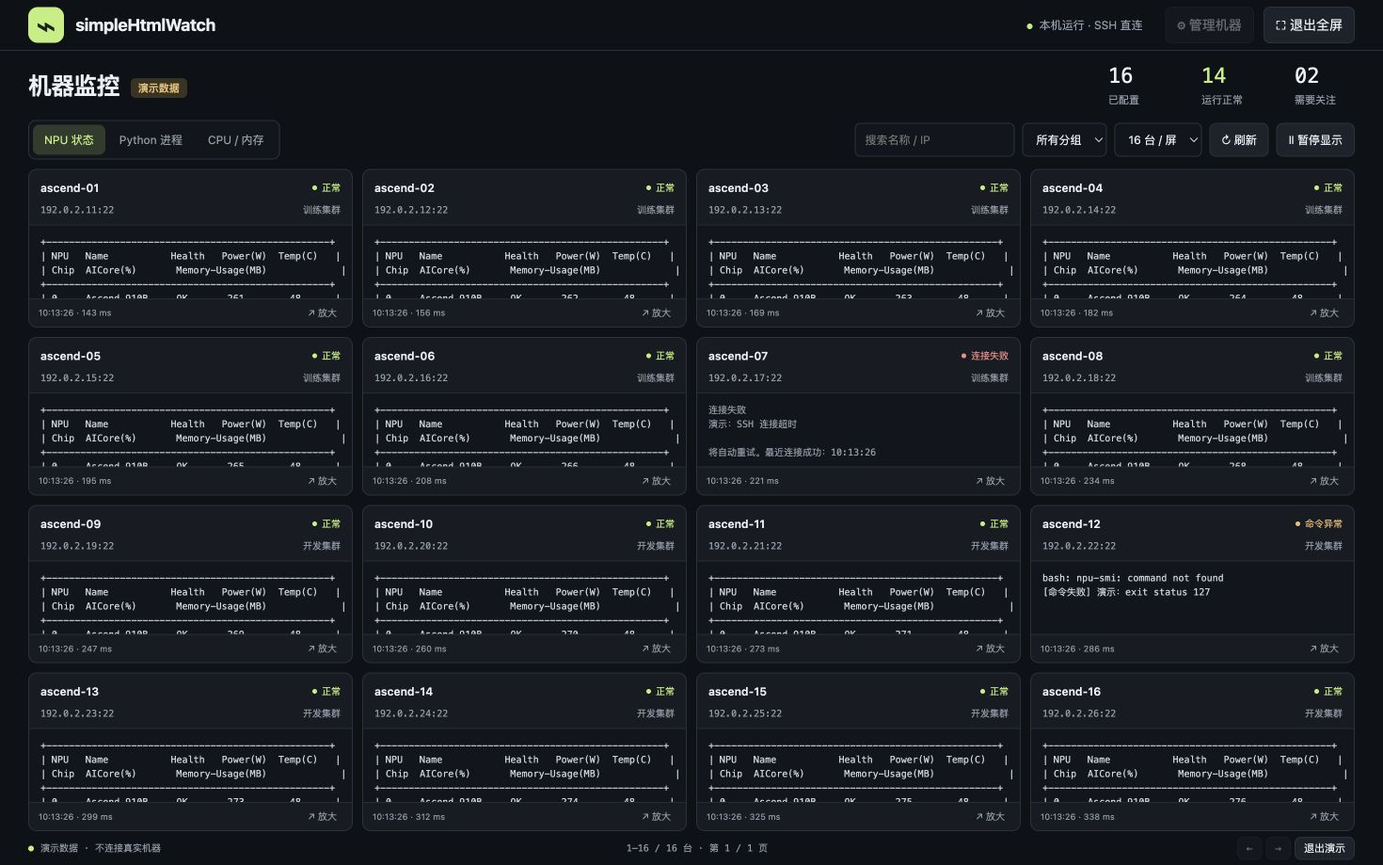
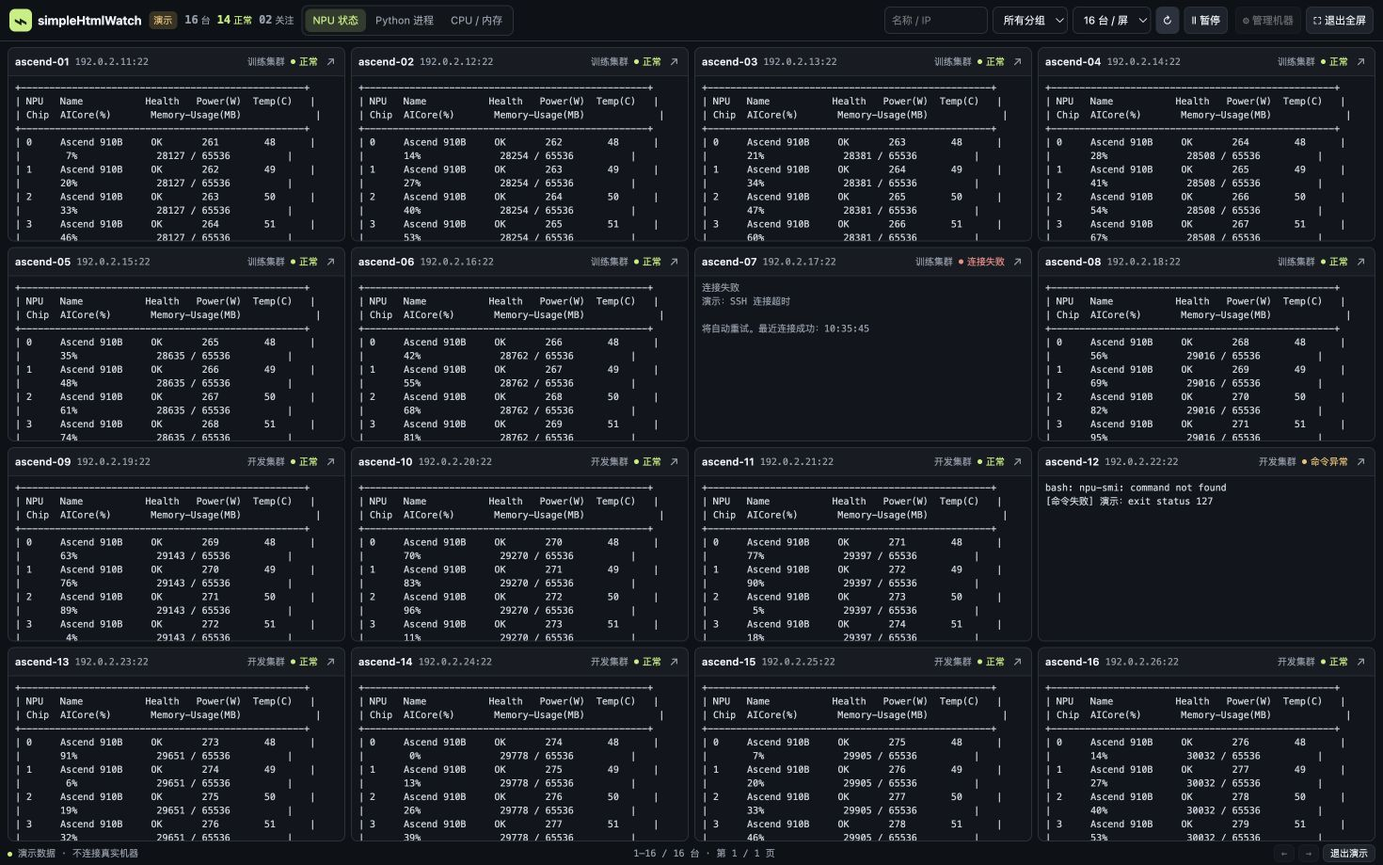
feat: maximize monitor output with single-row headers and 4s default

Changed region(s): [[0.0, 0.0, 1.0, 1.0]]

diff --git a/web/style.css b/web/style.css
@@ -1,22 +1,115 @@
 :root{color-scheme:dark;--bg:#0e1116;--surface:#171b22;--border:#2b313b;--text:#edf0f5;--muted:#939dab;--accent:#c0ef78;--amber:#edbf72;--red:#f78989;font:14px/1.5 -apple-system,BlinkMacSystemFont,"Segoe UI","Microsoft YaHei",sans-serif}
-*{box-sizing:border-box}body{margin:0;background:var(--bg);color:var(--text)}button,input,select,textarea{font:inherit}button{cursor:pointer;border:1px solid var(--border);border-radius:7px;padding:8px 12px;background:#1d222b;color:var(--text);white-space:nowrap;transition:background .15s}button:hover{background:#2b323e}button:disabled{opacity:.4;cursor:default}input,select,textarea{color:var(--text);background:#11151c;border:1px solid var(--border);border-radius:6px;padding:8px 10px;min-width:0}input:focus,select:focus,textarea:focus,button:focus-visible{outline:2px solid var(--accent);outline-offset:2px}input[type=checkbox]{accent-color:var(--accent)}[hidden]{display:none!important}h1,h2,h3,p{margin:0}h1{font-size:30px;letter-spacing:-.8px;font-weight:650}h2{font-size:21px}h3{font-size:15px}p{color:var(--muted)}.primary{background:var(--accent);border-color:var(--accent);color:#182019;font-weight:650}.primary:hover{background:#d0ff8a}.green{color:var(--accent)}.muted{color:var(--muted)}.wrap{overflow-wrap:anywhere}.topbar{height:76px;border-bottom:1px solid var(--border);display:flex;justify-content:space-between;align-items:center;padding:0 30px}.brand{display:flex;align-items:center;gap:12px;color:inherit;text-decoration:none}.brand-icon{background:var(--accent);width:38px;height:38px;border-radius:10px;display:grid;place-items:center;color:#162316;font-size:36px;line-height:1}.brand strong{font-size:18px;letter-spacing:-.3px}.brand-sub{display:block;font:9px/1.6 monospace;letter-spacing:2px;color:var(--muted)}.top-actions{display:flex;align-items:center;gap:10px}.local{font-size:12px;color:var(--muted);margin-right:14px}.local i,footer i{display:inline-block;width:6px;height:6px;border-radius:50%;background:var(--accent);margin-right:7px}main{padding:25px 30px 0}.page-heading{display:flex;justify-content:space-between;align-items:center;margin-bottom:24px}.eyebrow{font:10px/1.6 monospace;letter-spacing:2px;color:var(--muted);margin-bottom:6px}.page-heading p{font-size:12px;margin-top:4px}.summary{display:flex;gap:35px}.summary div{min-width:64px}.summary b{font:28px/1.3 monospace;display:block}.summary span{font-size:11px;color:var(--muted)}.toolbar{display:flex;align-items:center;justify-content:space-between;gap:12px;margin-bottom:18px;flex-wrap:wrap}.tabs{display:flex;gap:3px;padding:4px;border:1px solid var(--border);border-radius:8px;background:#11151a;width:fit-content}.tabs button{border:0;background:transparent;font-size:12px;color:var(--muted);padding:7px 12px}.tabs button.active{background:#313b2c;color:var(--accent)}.filters{display:flex;gap:8px;align-items:center}.filters input{width:170px}.filters input,.filters select,.filters button{font-size:12px;height:36px}.machine-grid{display:grid;grid-template-columns:repeat(4,minmax(0,1fr));gap:12px}.machine-grid[data-layout="2"],.machine-grid[data-layout="4"]{grid-template-columns:repeat(2,minmax(0,1fr))}.machine-grid[data-layout="8"]{grid-template-columns:repeat(4,minmax(0,1fr))}.machine-card{border:1px solid var(--border);border-radius:9px;background:var(--surface);overflow:hidden;min-width:0;display:flex;flex-direction:column;height:clamp(180px,calc((100dvh - 326px)/4),280px)}.machine-grid[data-layout="8"] .machine-card{height:max(240px,calc((100dvh - 302px)/2))}.machine-grid[data-layout="4"] .machine-card{height:max(240px,calc((100dvh - 302px)/2))}.machine-grid[data-layout="2"] .machine-card{height:max(360px,calc(100dvh - 290px))}.card-head{display:flex;justify-content:space-between;align-items:center;padding:10px 12px 7px;gap:8px}.card-name{font-weight:600;font-size:12px;white-space:nowrap;text-overflow:ellipsis;overflow:hidden}.card-meta{font:10px/1.5 monospace;color:var(--muted);padding:0 12px 8px;display:flex;justify-content:space-between;gap:5px}.card-meta span{white-space:nowrap;overflow:hidden;text-overflow:ellipsis}.badge{display:flex;align-items:center;gap:5px;color:var(--muted);font-size:10px;white-space:nowrap}.badge:before{content:"";height:5px;width:5px;border-radius:50%;background:currentColor}.badge.online{color:var(--accent)}.badge.offline{color:var(--red)}.badge.partial,.badge.untrusted{color:var(--amber)}.card-output{margin:0;padding:10px 12px;background:#11151c;border-top:1px solid #262d37;overflow:auto;flex:1;color:#ccd4df;font:10px/1.5 "Cascadia Mono",Consolas,"SFMono-Regular",monospace;white-space:pre;tab-size:4}.card-output.message{white-space:pre-wrap;color:var(--muted)}.card-foot{display:flex;align-items:center;justify-content:space-between;padding:5px 10px;border-top:1px solid #262d37;font-size:9px;color:var(--muted);gap:6px;min-height:28px}.card-foot button{font-size:10px;border:0;padding:2px 6px;background:transparent;color:var(--muted)}.card-foot .trust-action{color:var(--amber)}.empty{min-height:470px;border:1px dashed #39404b;border-radius:12px;display:flex;align-items:center;justify-content:center;flex-direction:column;text-align:center;background:radial-gradient(ellipse at 50% 0%,#20292255,transparent 65%)}.empty-icon{font-size:60px;color:var(--accent);line-height:1;margin:14px}.empty h2{font-size:25px;margin:10px 0}.empty p{font-size:13px;line-height:1.9;margin-bottom:23px}.empty button{margin:0 4px}.setup-steps{display:flex;gap:35px;margin:45px 0 25px;font-size:11px;color:var(--muted)}.setup-steps b{color:var(--accent);font-family:monospace;margin-right:7px}.notice{background:#412c25;border:1px solid #775346;color:#ffd1b5;padding:10px;margin-bottom:15px;border-radius:6px}.no-results{padding:70px;text-align:center;grid-column:1/-1;color:var(--muted)}footer{display:flex;justify-content:space-between;align-items:center;gap:12px;color:var(--muted);font:10px/1.5 monospace;min-height:46px}footer button{padding:3px 9px;font-size:11px;margin-left:4px}.demo-tag{font-size:11px;letter-spacing:0;background:#3a3321;color:var(--amber);padding:4px 8px;border-radius:5px;margin-left:12px;vertical-align:middle}dialog{color:var(--text);background:var(--surface);border:1px solid #414954;border-radius:12px;padding:0;width:min(560px,94vw);max-height:92dvh;box-shadow:0 30px 100px #0009}dialog::backdrop{background:#000a;backdrop-filter:blur(5px)}.settings-dialog{width:min(1200px,96vw)}.dialog-heading{display:flex;align-items:center;justify-content:space-between;padding:23px 25px;border-bottom:1px solid var(--border);gap:20px}.dialog-heading p{font-size:12px;margin-top:5px}.dialog-heading button{border:0;background:transparent}.settings-body{padding:0 25px 20px;max-height:65dvh;overflow:auto}.section-title{display:flex;justify-content:space-between;align-items:center;gap:12px;margin:23px 0 12px}.section-title p{font-size:12px;margin-top:4px}.section-title button{font-size:12px}.section-title input{width:78px}.profile-row{display:grid;grid-template-columns:1fr 1fr 1.5fr auto;gap:10px;padding:12px;margin:8px 0;border:1px solid var(--border);border-radius:8px}.profile-row label,.machine-edit label,.batch-body label{display:flex;flex-direction:column;gap:5px;font-size:11px;color:var(--muted)}.profile-row button{align-self:end}.machine-edit{border:1px solid var(--border);border-radius:8px;padding:12px;margin-bottom:8px}.machine-fields{display:grid;grid-template-columns:1fr 1.2fr 75px .8fr 1fr auto;gap:9px}.machine-fields button{align-self:end}.machine-options{display:flex;align-items:center;gap:18px;margin-top:10px}.machine-options label{display:flex;flex-direction:row;align-items:center;gap:4px}.machine-options .enabled{margin-left:auto}.delete{color:var(--red)}.editor-empty{padding:20px;border:1px dashed var(--border);color:var(--muted);font-size:12px;border-radius:8px}.dialog-footer{display:flex;justify-content:space-between;align-items:center;padding:16px 25px;border-top:1px solid var(--border);gap:10px}.dialog-footer button{font-size:12px}.privacy-note{font-size:11px;line-height:1.8;background:#10151b;border-radius:6px;padding:12px}.form-error{color:var(--red);font-size:12px;padding:0 25px 8px;white-space:pre-wrap}.batch-body{padding:20px 25px;display:flex;flex-direction:column;gap:15px}.batch-body textarea{resize:vertical;font-family:monospace;width:100%}.batch-body p{font-size:12px}.batch-body pre{white-space:pre-wrap;overflow-wrap:anywhere;color:var(--accent)}.batch-body .form-error{padding:0}.detail-dialog{width:min(1300px,96vw)}.detail-dialog .tabs{margin:18px 25px}.detail-dialog pre{margin:0;padding:0 25px 25px;font:13px/1.65 "Cascadia Mono",Consolas,monospace;overflow:auto;min-height:200px;max-height:64dvh}#toast{position:fixed;bottom:22px;left:50%;transform:translateX(-50%);padding:10px 20px;border-radius:8px;border:1px solid #677551;background:#273222;color:var(--accent);z-index:99;font-size:13px}:fullscreen .topbar{height:54px}:fullscreen main{padding-top:12px}:fullscreen .page-heading{margin-bottom:12px}:fullscreen h1{font-size:24px}:fullscreen .page-heading .eyebrow,:fullscreen .page-heading p,:fullscreen .brand-sub{display:none}:fullscreen .summary b{font-size:22px}:fullscreen .toolbar{margin-bottom:10px}:fullscreen .machine-card{height:max(145px,calc((100dvh - 224px)/4))}:fullscreen .machine-grid[data-layout="8"] .machine-card,:fullscreen .machine-grid[data-layout="4"] .machine-card{height:max(230px,calc((100dvh - 200px)/2))}:fullscreen .machine-grid[data-layout="2"] .machine-card{height:max(360px,calc(100dvh - 188px))}
-@media(min-width:1800px){.card-output{font-size:11px}}
-@media(max-width:1100px){.local{display:none}.filters input{width:135px}.machine-grid,.machine-grid[data-layout="8"]{grid-template-columns:repeat(2,minmax(0,1fr))}.machine-fields{grid-template-columns:1fr 1.2fr 65px}.machine-card{height:240px}.toolbar{gap:10px}.summary{gap:15px}:fullscreen .machine-card{height:240px}}
-@media(max-width:640px){.topbar{padding:0 14px;height:65px}.brand strong{font-size:14px}.brand-sub{display:none}.brand-icon{width:30px;height:30px}.top-actions{gap:5px}.top-actions button{font-size:11px;padding:7px}main{padding:18px 12px 0}.summary{gap:10px}.summary div{min-width:35px}.summary b{font-size:21px}.summary span{font-size:9px}h1{font-size:23px}.page-heading .eyebrow{font-size:8px}.filters{flex-wrap:wrap}.machine-grid,.machine-grid[data-layout="2"],.machine-grid[data-layout="4"],.machine-grid[data-layout="8"]{grid-template-columns:1fr}.profile-row{grid-template-columns:1fr 1fr}.machine-fields{grid-template-columns:1fr 1fr}.machine-options{gap:8px;flex-wrap:wrap}.section-title{align-items:start;flex-direction:column}.dialog-heading,.settings-body,.dialog-footer{padding-left:14px;padding-right:14px}.dialog-footer{flex-wrap:wrap}.setup-steps{gap:10px;flex-direction:column}.empty h2{font-size:20px}.empty p{font-size:12px}.empty{padding:20px}.detail-dialog pre{font-size:11px}}
-@media(min-width:1101px){
-  body{height:100dvh;min-height:640px;display:flex;flex-direction:column}
-  .topbar{flex-shrink:0;height:60px}
-  main{flex:1;min-height:0;display:flex;flex-direction:column;padding-top:14px}
-  .page-heading{flex-shrink:0;margin-bottom:14px}
-  .page-heading .eyebrow{font-size:9px;margin-bottom:2px}
-  .page-heading h1{font-size:25px;line-height:1.3}
-  .page-heading p{display:none}
-  .summary b{font-size:24px}
-  .toolbar{flex-shrink:0;margin-bottom:12px}
-  .notice{flex-shrink:0}
-  .machine-grid{flex:1;min-height:0;grid-auto-rows:minmax(0,1fr);gap:10px}
-  .machine-grid .machine-card,.machine-grid[data-layout] .machine-card,:fullscreen .machine-grid .machine-card,:fullscreen .machine-grid[data-layout] .machine-card{height:auto;min-height:0}
-  .card-output{min-height:0}
-  footer{flex-shrink:0;min-height:36px}
-  .empty{flex:1;min-height:300px}
+*{box-sizing:border-box}
+body{margin:0;background:var(--bg);color:var(--text);height:100dvh;min-height:480px;display:flex;flex-direction:column}
+button,input,select,textarea{font:inherit}
+button{cursor:pointer;border:1px solid var(--border);border-radius:6px;padding:8px 12px;background:#1d222b;color:var(--text);white-space:nowrap;transition:background .15s}
+button:hover{background:#2b323e}
+button:disabled{opacity:.4;cursor:default}
+input,select,textarea{color:var(--text);background:#11151c;border:1px solid var(--border);border-radius:6px;padding:8px 10px;min-width:0}
+input:focus,select:focus,textarea:focus,button:focus-visible,.badge:focus-visible{outline:2px solid var(--accent);outline-offset:2px}
+input[type=checkbox]{accent-color:var(--accent)}
+[hidden]{display:none!important}
+h1,h2,h3,p{margin:0}h2{font-size:21px}h3{font-size:15px}p{color:var(--muted)}
+.primary{background:var(--accent);border-color:var(--accent);color:#182019;font-weight:650}.primary:hover{background:#d0ff8a}
+.green{color:var(--accent)}.muted{color:var(--muted)}.wrap{overflow-wrap:anywhere}
+.eyebrow{font:10px/1.6 monospace;letter-spacing:2px;color:var(--muted);margin-bottom:6px}
+/* Keep the entire dashboard toolbar on one row, including in fullscreen. */
+.topbar{display:flex;align-items:center;gap:8px;flex-shrink:0;min-height:44px;padding:5px 10px;border-bottom:1px solid var(--border);overflow-x:auto;white-space:nowrap}
+.brand{display:flex;align-items:center;gap:6px;flex-shrink:0;color:inherit;text-decoration:none}
+.brand-icon{width:24px;height:24px;border-radius:6px;display:grid;place-items:center;background:var(--accent);color:#162316;font-size:25px;line-height:1}
+.brand strong{font-size:13px;letter-spacing:-.3px}
+.summary{display:flex;align-items:center;gap:7px;flex-shrink:0;color:var(--muted);font-size:10px}
+.summary b{font:600 12px/1 monospace}
+.toolbar{display:flex;align-items:center;justify-content:space-between;gap:8px;flex:1}
+.tabs{display:flex;gap:2px;padding:3px;border:1px solid var(--border);border-radius:7px;background:#11151a;width:fit-content;flex-shrink:0}
+.tabs button{border:0;background:transparent;font-size:11px;color:var(--muted);padding:4px 8px}
+.tabs button.active{background:#313b2c;color:var(--accent)}
+.filters,.top-actions{display:flex;align-items:center;gap:5px;flex-shrink:0}
+.filters input{width:110px}.filters select{max-width:110px}
+.filters input,.filters select,.filters button,.top-actions button{height:29px;font-size:11px;padding:4px 7px}
+main{flex:1;min-height:0;display:flex;flex-direction:column;padding:6px 8px 0}
+.machine-grid{display:grid;grid-template-columns:repeat(4,minmax(0,1fr));grid-auto-rows:minmax(0,1fr);gap:6px;flex:1;min-height:0}
+.machine-grid[data-layout="2"],.machine-grid[data-layout="4"]{grid-template-columns:repeat(2,minmax(0,1fr))}
+.machine-card{border:1px solid var(--border);border-radius:7px;background:var(--surface);overflow:hidden;min-width:0;min-height:0;display:flex;flex-direction:column}
+/* One metadata row; the remaining card height belongs to command output. */
+.card-head{display:flex;align-items:center;flex-wrap:nowrap;flex-shrink:0;gap:6px;height:29px;padding:3px 7px;white-space:nowrap}
+.card-name{font-weight:600;font-size:11px;flex:0 1 auto;max-width:120px;min-width:36px;overflow:hidden;text-overflow:ellipsis}
+.host,.group{font:10px/1.5 monospace;color:var(--muted);overflow:hidden;text-overflow:ellipsis}
+.host{flex:0 1 auto;min-width:60px}
+.group{flex:0 3 auto;min-width:0;max-width:65px;margin-left:auto;font-family:inherit}
+.badge{display:flex;align-items:center;gap:4px;flex-shrink:0;color:var(--muted);font-size:10px;white-space:nowrap}
+.badge:before{content:"";height:5px;width:5px;border-radius:50%;background:currentColor}
+.badge.online{color:var(--accent)}.badge.offline{color:var(--red)}.badge.partial,.badge.untrusted{color:var(--amber)}
+.card-head button{flex-shrink:0;border:0;padding:1px 3px;background:transparent;color:var(--muted);font-size:12px;line-height:20px}
+.card-head .trust-action{color:var(--amber);font-size:10px}
+.card-output{margin:0;padding:5px 7px;background:#11151c;border-top:1px solid #262d37;overflow:auto;flex:1;min-height:0;color:#ccd4df;font:10px/1.45 "Cascadia Mono",Consolas,"SFMono-Regular",monospace;white-space:pre;tab-size:4}
+.card-output.message{white-space:pre-wrap;color:var(--muted)}
+.empty{min-height:470px;border:1px dashed #39404b;border-radius:12px;display:flex;align-items:center;justify-content:center;flex-direction:column;text-align:center;background:radial-gradient(ellipse at 50% 0%,#20292255,transparent 65%)}
+.empty-icon{font-size:60px;color:var(--accent);line-height:1;margin:14px}
+.empty h2{font-size:25px;margin:10px 0}
+.empty p{font-size:13px;line-height:1.9;margin-bottom:23px}
+.empty button{margin:0 4px}
+.setup-steps{display:flex;gap:35px;margin:45px 0 25px;font-size:11px;color:var(--muted)}
+.setup-steps b{color:var(--accent);font-family:monospace;margin-right:7px}
+.notice{background:#412c25;border:1px solid #775346;color:#ffd1b5;padding:10px;margin-bottom:15px;border-radius:6px}
+.no-results{padding:70px;text-align:center;grid-column:1/-1;color:var(--muted)}
+footer{display:flex;justify-content:space-between;align-items:center;gap:12px;color:var(--muted);font:10px/1.5 monospace;min-height:46px}
+footer button{padding:3px 9px;font-size:11px;margin-left:4px}
+.demo-tag{font-size:11px;letter-spacing:0;background:#3a3321;color:var(--amber);padding:4px 8px;border-radius:5px;margin-left:12px;vertical-align:middle}
+dialog{color:var(--text);background:var(--surface);border:1px solid #414954;border-radius:12px;padding:0;width:min(560px,94vw);max-height:92dvh;box-shadow:0 30px 100px #0009}
+dialog::backdrop{background:#000a;backdrop-filter:blur(5px)}
+.settings-dialog{width:min(1200px,96vw)}
+.dialog-heading{display:flex;align-items:center;justify-content:space-between;padding:23px 25px;border-bottom:1px solid var(--border);gap:20px}
+.dialog-heading p{font-size:12px;margin-top:5px}
+.dialog-heading button{border:0;background:transparent}
+.settings-body{padding:0 25px 20px;max-height:65dvh;overflow:auto}
+.section-title{display:flex;justify-content:space-between;align-items:center;gap:12px;margin:23px 0 12px}
+.section-title p{font-size:12px;margin-top:4px}
+.section-title button{font-size:12px}
+.section-title input{width:78px}
+.profile-row{display:grid;grid-template-columns:1fr 1fr 1.5fr auto;gap:10px;padding:12px;margin:8px 0;border:1px solid var(--border);border-radius:8px}
+.profile-row label,.machine-edit label,.batch-body label{display:flex;flex-direction:column;gap:5px;font-size:11px;color:var(--muted)}
+.profile-row button{align-self:end}
+.machine-edit{border:1px solid var(--border);border-radius:8px;padding:12px;margin-bottom:8px}
+.machine-fields{display:grid;grid-template-columns:1fr 1.2fr 75px .8fr 1fr auto;gap:9px}
+.machine-fields button{align-self:end}
+.machine-options{display:flex;align-items:center;gap:18px;margin-top:10px}
+.machine-options label{display:flex;flex-direction:row;align-items:center;gap:4px}
+.machine-options .enabled{margin-left:auto}
+.delete{color:var(--red)}
+.editor-empty{padding:20px;border:1px dashed var(--border);color:var(--muted);font-size:12px;border-radius:8px}
+.dialog-footer{display:flex;justify-content:space-between;align-items:center;padding:16px 25px;border-top:1px solid var(--border);gap:10px}
+.dialog-footer button{font-size:12px}
+.privacy-note{font-size:11px;line-height:1.8;background:#10151b;border-radius:6px;padding:12px}
+.form-error{color:var(--red);font-size:12px;padding:0 25px 8px;white-space:pre-wrap}
+.batch-body{padding:20px 25px;display:flex;flex-direction:column;gap:15px}
+.batch-body textarea{resize:vertical;font-family:monospace;width:100%}
+.batch-body p{font-size:12px}
+.batch-body pre{white-space:pre-wrap;overflow-wrap:anywhere;color:var(--accent)}
+.batch-body .form-error{padding:0}
+.detail-dialog{width:min(1300px,96vw)}
+.detail-dialog .tabs{margin:18px 25px}
+.detail-dialog pre{margin:0;padding:0 25px 25px;font:13px/1.65 "Cascadia Mono",Consolas,monospace;overflow:auto;min-height:200px;max-height:64dvh}
+#toast{position:fixed;bottom:22px;left:50%;transform:translateX(-50%);padding:10px 20px;border-radius:8px;border:1px solid #677551;background:#273222;color:var(--accent);z-index:99;font-size:13px}
+
+.empty{flex:1;min-height:300px}
+.topbar .demo-tag{margin:0;font-size:10px;padding:2px 5px}
+footer{min-height:25px;flex-shrink:0;font-size:10px}
+footer button{font-size:10px;padding:1px 7px}
+footer i{display:inline-block;width:5px;height:5px;border-radius:50%;background:var(--accent);margin-right:6px}
+@media(min-width:1800px){.card-output{font-size:11px}.topbar{gap:12px}.filters input{width:160px}}
+@media(max-width:1100px){
+  body{height:auto;min-height:100dvh}
+  .machine-grid{flex:none;grid-template-columns:repeat(2,minmax(0,1fr));grid-auto-rows:260px}
+  .machine-grid[data-layout="2"]{grid-auto-rows:500px}
+  .machine-fields{grid-template-columns:1fr 1.2fr 65px}
+  .topbar{position:sticky;top:0;background:var(--bg);z-index:2}
+}
+@media(max-width:640px){
+  .machine-grid,.machine-grid[data-layout="2"],.machine-grid[data-layout="4"]{grid-template-columns:1fr}
+  .profile-row{grid-template-columns:1fr 1fr}.machine-fields{grid-template-columns:1fr 1fr}
+  .machine-options{gap:8px;flex-wrap:wrap}.section-title{align-items:start;flex-direction:column}
+  .dialog-heading,.settings-body,.dialog-footer{padding-left:14px;padding-right:14px}.dialog-footer{flex-wrap:wrap}
+  .setup-steps{gap:10px;flex-direction:column}.empty h2{font-size:20px}.empty p{font-size:12px}.empty{padding:20px}
+  .detail-dialog pre{font-size:11px}footer{flex-wrap:wrap;padding:4px 0;gap:4px}
 }

diff --git a/web/index.html b/web/index.html
@@ -9,16 +9,17 @@
 </head>
 <body>
   <header class="topbar">
-    <a class="brand" href="/" aria-label="simpleHtmlWatch 首页"><span class="brand-icon">⌁</span><strong>simpleHtmlWatch<span class="brand-sub">BARE METAL, IN SIGHT.</span></strong></a>
-    <div class="top-actions"><span class="local"><i></i>本机运行 · SSH 直连</span><button id="settings-btn">⚙ 管理机器</button><button id="fullscreen-btn" title="进入全屏，按 Esc 退出">⛶ 全屏</button></div>
+    <a class="brand" href="/" aria-label="simpleHtmlWatch 首页"><span class="brand-icon">⌁</span><strong>simpleHtmlWatch</strong></a>
+    <span id="demo-tag" class="demo-tag" hidden>演示</span>
+    <div class="summary" aria-label="机器统计"><span title="已配置"><b id="total">00</b> 台</span><span class="green" title="运行正常"><b id="online">00</b> 正常</span><span title="需要关注"><b id="attention">00</b> 关注</span></div>
+    <div class="toolbar" role="region" aria-label="监控工具栏">
+      <div class="tabs" id="view-tabs"><button data-view="npu" class="active">NPU 状态</button><button data-view="python">Python 进程</button><button data-view="usage">CPU / 内存</button></div>
+      <div class="filters"><input id="search" type="search" placeholder="名称 / IP" aria-label="搜索机器"><select id="group-filter" aria-label="机器分组"><option value="">所有分组</option></select><select id="layout" aria-label="同屏台数"><option value="2">2 台 / 屏</option><option value="4">4 台 / 屏</option><option value="8">8 台 / 屏</option><option value="16" selected>16 台 / 屏</option></select><button id="refresh-btn" title="立即采集" aria-label="立即采集">↻</button><button id="pause-btn" title="暂停本页面显示更新，后台继续采集">Ⅱ 暂停</button></div>
+    </div>
+    <div class="top-actions"><button id="settings-btn">⚙ 管理机器</button><button id="fullscreen-btn" title="进入全屏，按 Esc 退出">⛶ 全屏</button></div>
   </header>
   <main>
-    <section class="page-heading"><div><div class="eyebrow">WORKSPACE / OVERVIEW</div><h1>机器监控<span id="demo-tag" class="demo-tag" hidden>演示数据</span></h1><p>所有机器，一个视野。</p></div><div class="summary"><div><b id="total">00</b><span>已配置</span></div><div><b id="online" class="green">00</b><span>运行正常</span></div><div><b id="attention">00</b><span>需要关注</span></div></div></section>
     <div id="connection-error" class="notice" hidden></div>
-    <section class="toolbar" aria-label="监控工具栏">
-      <div class="tabs" id="view-tabs"><button data-view="npu" class="active">NPU 状态</button><button data-view="python">Python 进程</button><button data-view="usage">CPU / 内存</button></div>
-      <div class="filters"><input id="search" type="search" placeholder="搜索名称 / IP" aria-label="搜索机器"><select id="group-filter" aria-label="机器分组"><option value="">所有分组</option></select><select id="layout" aria-label="同屏台数"><option value="2">2 台 / 屏</option><option value="4">4 台 / 屏</option><option value="8">8 台 / 屏</option><option value="16" selected>16 台 / 屏</option></select><button id="refresh-btn" title="立即采集">↻ 刷新</button><button id="pause-btn" title="暂停本页面显示更新，后台继续采集">Ⅱ 暂停显示</button></div>
-    </section>
     <section id="empty" class="empty" hidden><span class="empty-icon">⌁</span><div class="eyebrow">YOUR MACHINES. YOUR VIEW.</div><h2>把终端里的机器，放到同一个页面。</h2><p>创建一组共享凭据，添加机器，就能开始监控。<br>无需远程安装组件，最多 16 台同屏。</p><div><button id="empty-add" class="primary">＋ 添加第一台机器</button><button id="demo-btn">体验 16 台演示</button></div><div class="setup-steps"><span><b>01</b> 保存共享凭据</span><span><b>02</b> 批量添加机器</span><span><b>03</b> 确认指纹，开始监控</span></div></section>
     <section id="grid" class="machine-grid" aria-label="机器监控卡片"></section>
     <footer><span id="live-status"><i></i> 自动刷新</span><span id="page-info"></span><div><button id="prev-btn" aria-label="上一页">←</button><button id="next-btn" aria-label="下一页">→</button><button id="exit-demo" hidden>退出演示</button></div></footer>
@@ -27,7 +28,7 @@
     <form id="settings-form"><div class="dialog-heading"><div><div class="eyebrow">WORKSPACE SETTINGS</div><h2>管理机器与共享凭据</h2></div><button type="button" data-close="settings-dialog" aria-label="关闭设置">✕</button></div>
       <div class="settings-body"><div class="section-title"><div><h3>01 / 共享凭据</h3><p>同一用户名和密码只保存一次；机器引用后自动复用。</p></div><button type="button" id="add-profile">＋ 新增凭据</button></div><div id="profiles-editor"></div>
       <div class="section-title"><div><h3>02 / 机器列表</h3><p>支持 IP、主机名和自定义 SSH 端口。每屏最多展示 16 台。</p></div><div><button type="button" id="batch-btn">批量添加</button><button type="button" id="add-machine">＋ 添加机器</button></div></div><div id="machines-editor"></div>
-      <div class="section-title"><div><h3>03 / 刷新设置</h3><p>保留 SSH 连接，复用会话定期执行监控命令。</p></div><label>间隔 <input id="interval" type="number" min="3" max="3600" value="5" required> 秒</label></div>
+      <div class="section-title"><div><h3>03 / 刷新设置</h3><p>保留 SSH 连接，复用会话定期执行监控命令。</p></div><label>间隔 <input id="interval" type="number" min="3" max="3600" value="4" required> 秒</label></div>
       <p class="privacy-note">密码以加密配置保存在本机。密钥也位于本机配置目录，请妥善保管该目录；导出配置不会包含密码。</p></div>
       <div id="settings-error" class="form-error" role="alert"></div><div class="dialog-footer"><div><button type="button" id="export-btn">导出无密码配置</button><button type="button" id="import-btn">导入配置</button><input id="import-file" type="file" accept="application/json,.json" hidden></div><div><button type="button" data-close="settings-dialog">取消</button><button type="submit" id="save-btn" class="primary">保存并开始监控</button></div></div>
     </form>

diff --git a/web/app.js b/web/app.js
@@ -4,7 +4,7 @@ const $$ = (s, root = document) => [...root.querySelectorAll(s)];
 const esc = v => String(v ?? '').replace(/[&<>"']/g, c => ({'&':'&amp;','<':'&lt;','>':'&gt;','"':'&quot;',"'":'&#39;'}[c]));
 const uid = () => crypto.randomUUID();
 const token = $('meta[name="watch-token"]').content;
-let config = {machines:[], profiles:[], interval:5}, commands = [], states = {}, view = 'npu', page = 0;
+let config = {machines:[], profiles:[], interval:4}, commands = [], states = {}, view = 'npu', page = 0;
 let paused = false, demo = false, draft, detailID, detailView, trustPending, busy = false, toastTimer;
 let backendOK = true;
 const labels = {online:'正常',partial:'命令异常',offline:'连接失败',untrusted:'待确认指纹',connecting:'连接中',disabled:'已停用'};
@@ -45,7 +45,7 @@ function render() {
     $('#grid').replaceChildren();
     for (const m of visible) {
       const card = document.createElement('article'); card.className = 'machine-card'; card.dataset.id = m.id;
-      card.innerHTML = '<div class="card-head"><span class="card-name"></span><span class="badge"></span></div><div class="card-meta"><span class="host"></span><span class="group"></span></div><pre class="card-output" tabindex="0"></pre><div class="card-foot"><span class="updated"></span><div><button class="trust-action" hidden>核对指纹</button><button class="expand">↗ 放大</button></div></div>';
+      card.innerHTML = '<div class="card-head"><span class="card-name"></span><span class="host"></span><span class="group"></span><span class="badge" tabindex="0"></span><button class="trust-action" title="核对 SSH 主机指纹" hidden>指纹</button><button class="expand" title="放大机器输出" aria-label="放大机器输出">↗</button></div><pre class="card-output" tabindex="0"></pre>';
       $('.expand', card).onclick = () => openDetail(m.id);
       $('.trust-action', card).onclick = () => openTrust(m.id);
       $('#grid').append(card);
@@ -62,7 +62,12 @@ function render() {
     // Keep each terminal's scroll position while replacing its text.
     if (out.textContent !== value) { const top = out.scrollTop, left = out.scrollLeft; out.textContent = value; out.scrollTop = top; out.scrollLeft = left; }
     out.classList.toggle('message', !['online','partial'].includes(s.status));
-    $('.updated', card).textContent = `${time(s.updatedAt)}${s.durationMs != null ? ` · ${s.durationMs} ms` : ''}`;
+    const updated = `${time(s.updatedAt)}${s.durationMs != null ? ` · ${s.durationMs} ms` : ''}`;
+    badge.title = `${labels[s.status] || s.status} · ${updated}`;
+    badge.setAttribute('aria-label', badge.title);
+    $('.card-head', card).title = `${m.name} · ${m.host}:${m.port} · ${m.group || '未分组'} · ${updated}`;
+    $('.host', card).title = `${m.host}:${m.port}`;
+    $('.group', card).title = m.group || '未分组';
     $('.trust-action', card).hidden = s.status !== 'untrusted' || demo;
   }
   $('#page-info').textContent = filtered.length ? `${page * size + 1}–${Math.min((page + 1) * size, filtered.length)} / ${filtered.length} 台 · 第 ${page + 1} / ${Math.ceil(filtered.length / size)} 页` : '0 台机器';
@@ -82,7 +87,7 @@ async function poll() {
 $('#view-tabs').onclick = e => { const b = e.target.closest('[data-view]'); if (!b) return; view = b.dataset.view; $$('#view-tabs button').forEach(el => el.classList.toggle('active', el === b)); render(); };
 for (const id of ['search','group-filter','layout']) $('#' + id).addEventListener(id === 'search' ? 'input' : 'change', () => { page = 0; render(); });
 $('#prev-btn').onclick = () => { page--; render(); }; $('#next-btn').onclick = () => { page++; render(); };
-$('#pause-btn').onclick = () => { paused = !paused; $('#pause-btn').textContent = paused ? '▶ 恢复显示' : 'Ⅱ 暂停显示'; render(); };
+$('#pause-btn').onclick = () => { paused = !paused; $('#pause-btn').textContent = paused ? '▶ 恢复' : 'Ⅱ 暂停'; render(); };
 $('#refresh-btn').onclick = async () => { if (demo) return toast('当前是演示数据'); try { await api('refresh','POST'); toast('已请求刷新'); } catch(e) { toast(e.message); } };
 $('#fullscreen-btn').onclick = async () => { try { if (document.fullscreenElement) await document.exitFullscreen(); else await document.documentElement.requestFullscreen(); } catch(e) { toast('浏览器未允许全屏，请尝试按 F11'); } };
 document.addEventListener('fullscreenchange', () => { $('#fullscreen-btn').textContent = document.fullscreenElement ? '⛶ 退出全屏' : '⛶ 全屏'; $('#fullscreen-btn').setAttribute('aria-pressed', !!document.fullscreenElement); });
@@ -167,7 +172,7 @@ $('#import-file').onchange = async e => {
   } catch(e) { $('#settings-error').textContent = `导入失败：${e.message}`; } finally { e.target.value = ''; }
 };
 function enterDemo() {
-  demo = true; paused = false; $('#pause-btn').textContent = 'Ⅱ 暂停显示'; states = {}; config = {interval:5,profiles:[],machines:[]};
+  demo = true; paused = false; $('#pause-btn').textContent = 'Ⅱ 暂停'; states = {}; config = {interval:4,profiles:[],machines:[]};
   for (let i=1;i<=16;i++) {
     const id = `demo-${i}`, n = String(i).padStart(2,'0'), status = i === 7 ? 'offline' : i === 12 ? 'partial' : 'online';
     config.machines.push({id,name:`ascend-${n}`,host:`192.0.2.${10+i}`,port:22,group:i<9?'训练集群':'开发集群',profileId:'demo',commands:['npu','python','usage'],enabled:true});

diff --git a/internal/watch/config.go b/internal/watch/config.go
@@ -122,7 +122,7 @@ func NewStore(dir string) (*Store, error) {
 	if err := os.MkdirAll(dir, 0700); err != nil {
 		return nil, err
 	}
-	s := &Store{dir: dir, config: Config{Interval: 5, Profiles: []Profile{}, Machines: []Machine{}}}
+	s := &Store{dir: dir, config: Config{Interval: 4, Profiles: []Profile{}, Machines: []Machine{}}}
 	keyPath := filepath.Join(dir, "vault.key")
 	key, err := os.ReadFile(keyPath)
 	if os.IsNotExist(err) {

diff --git a/README.md b/README.md
@@ -19,12 +19,13 @@
 ## 一个页面，最多 16 台
 
 - **2 / 4 / 8 / 16 台布局**：宽屏下 16 台按 4 × 4 展示，窄屏自动降列；小屏幕可以滚动。
+- **紧凑表头**：页面标题、统计和工具栏合为一行；机器名称、地址、分组、状态和放大按钮也合为一行。更新时间和采集耗时移至状态悬停提示，命令正文获得更多空间。
 - **全屏**：右上角「全屏」进入，按 Esc 或「退出全屏」恢复。
 - **单台放大**：卡片内点「放大」，查看完整输出并切换命令。
 - **统一切换**：NPU 状态 / Python 进程 / CPU 与内存，一次切换所有卡片。
 - **搜索、分组、分页**：最多配置 200 台机器，每页最多显示 16 台。后台会监控所有已启用机器，分页不停止采集。
 - **共享凭据**：同一账号密码只填一次；修改一组凭据，引用它的机器全部更新。编辑时密码留空表示保持原值。
-- **自动刷新**：默认 5 秒，允许 3–3600 秒；保持 SSH 连接，最多 8 台同时采集。一次采集完成后等待配置间隔，因此慢命令会延长实际刷新周期。
+- **自动刷新**：默认 4 秒，允许 3–3600 秒；保持 SSH 连接，最多 8 台同时采集。一次采集完成后等待配置间隔，因此慢命令会延长实际刷新周期。
 - **失败可见**：离线、密码错误、主机密钥变化、命令缺失分别显示；单台出错不阻塞其余机器。失败自动重试，不无限积累任务。
 - **演示模式**：空页面点「体验 16 台演示」。所有地址、任务及读数均为虚构，不会连接任何机器。
 
